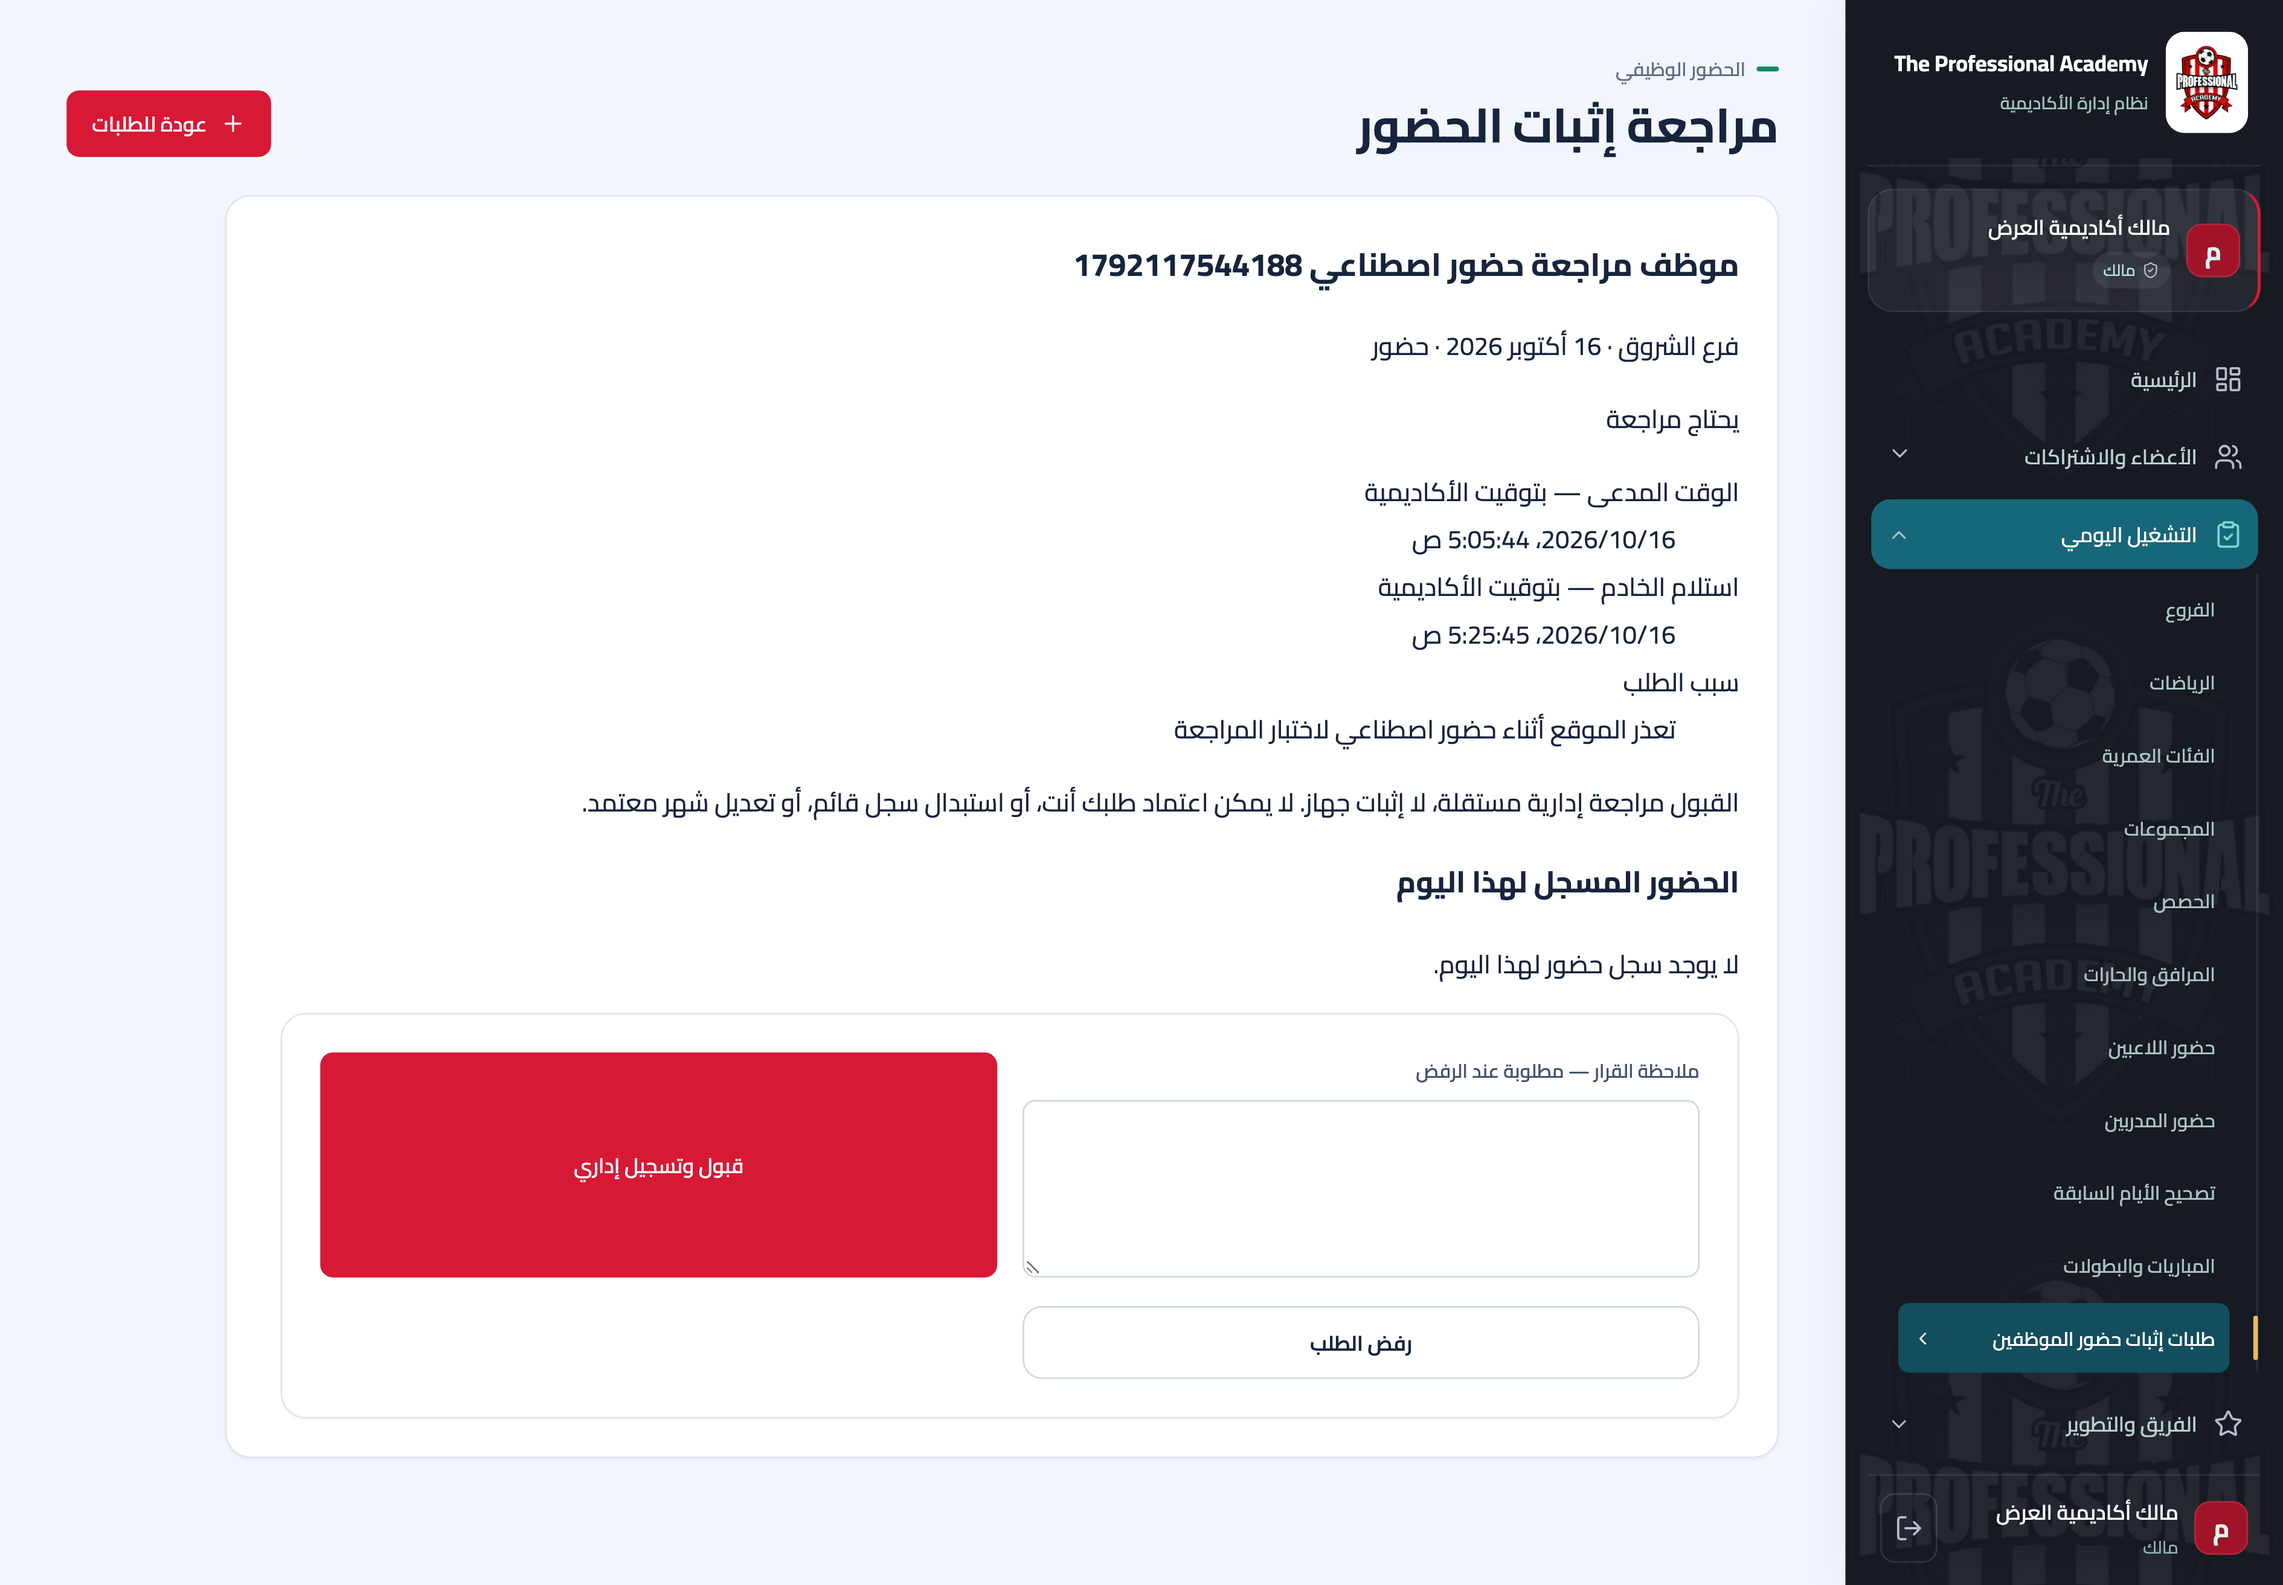
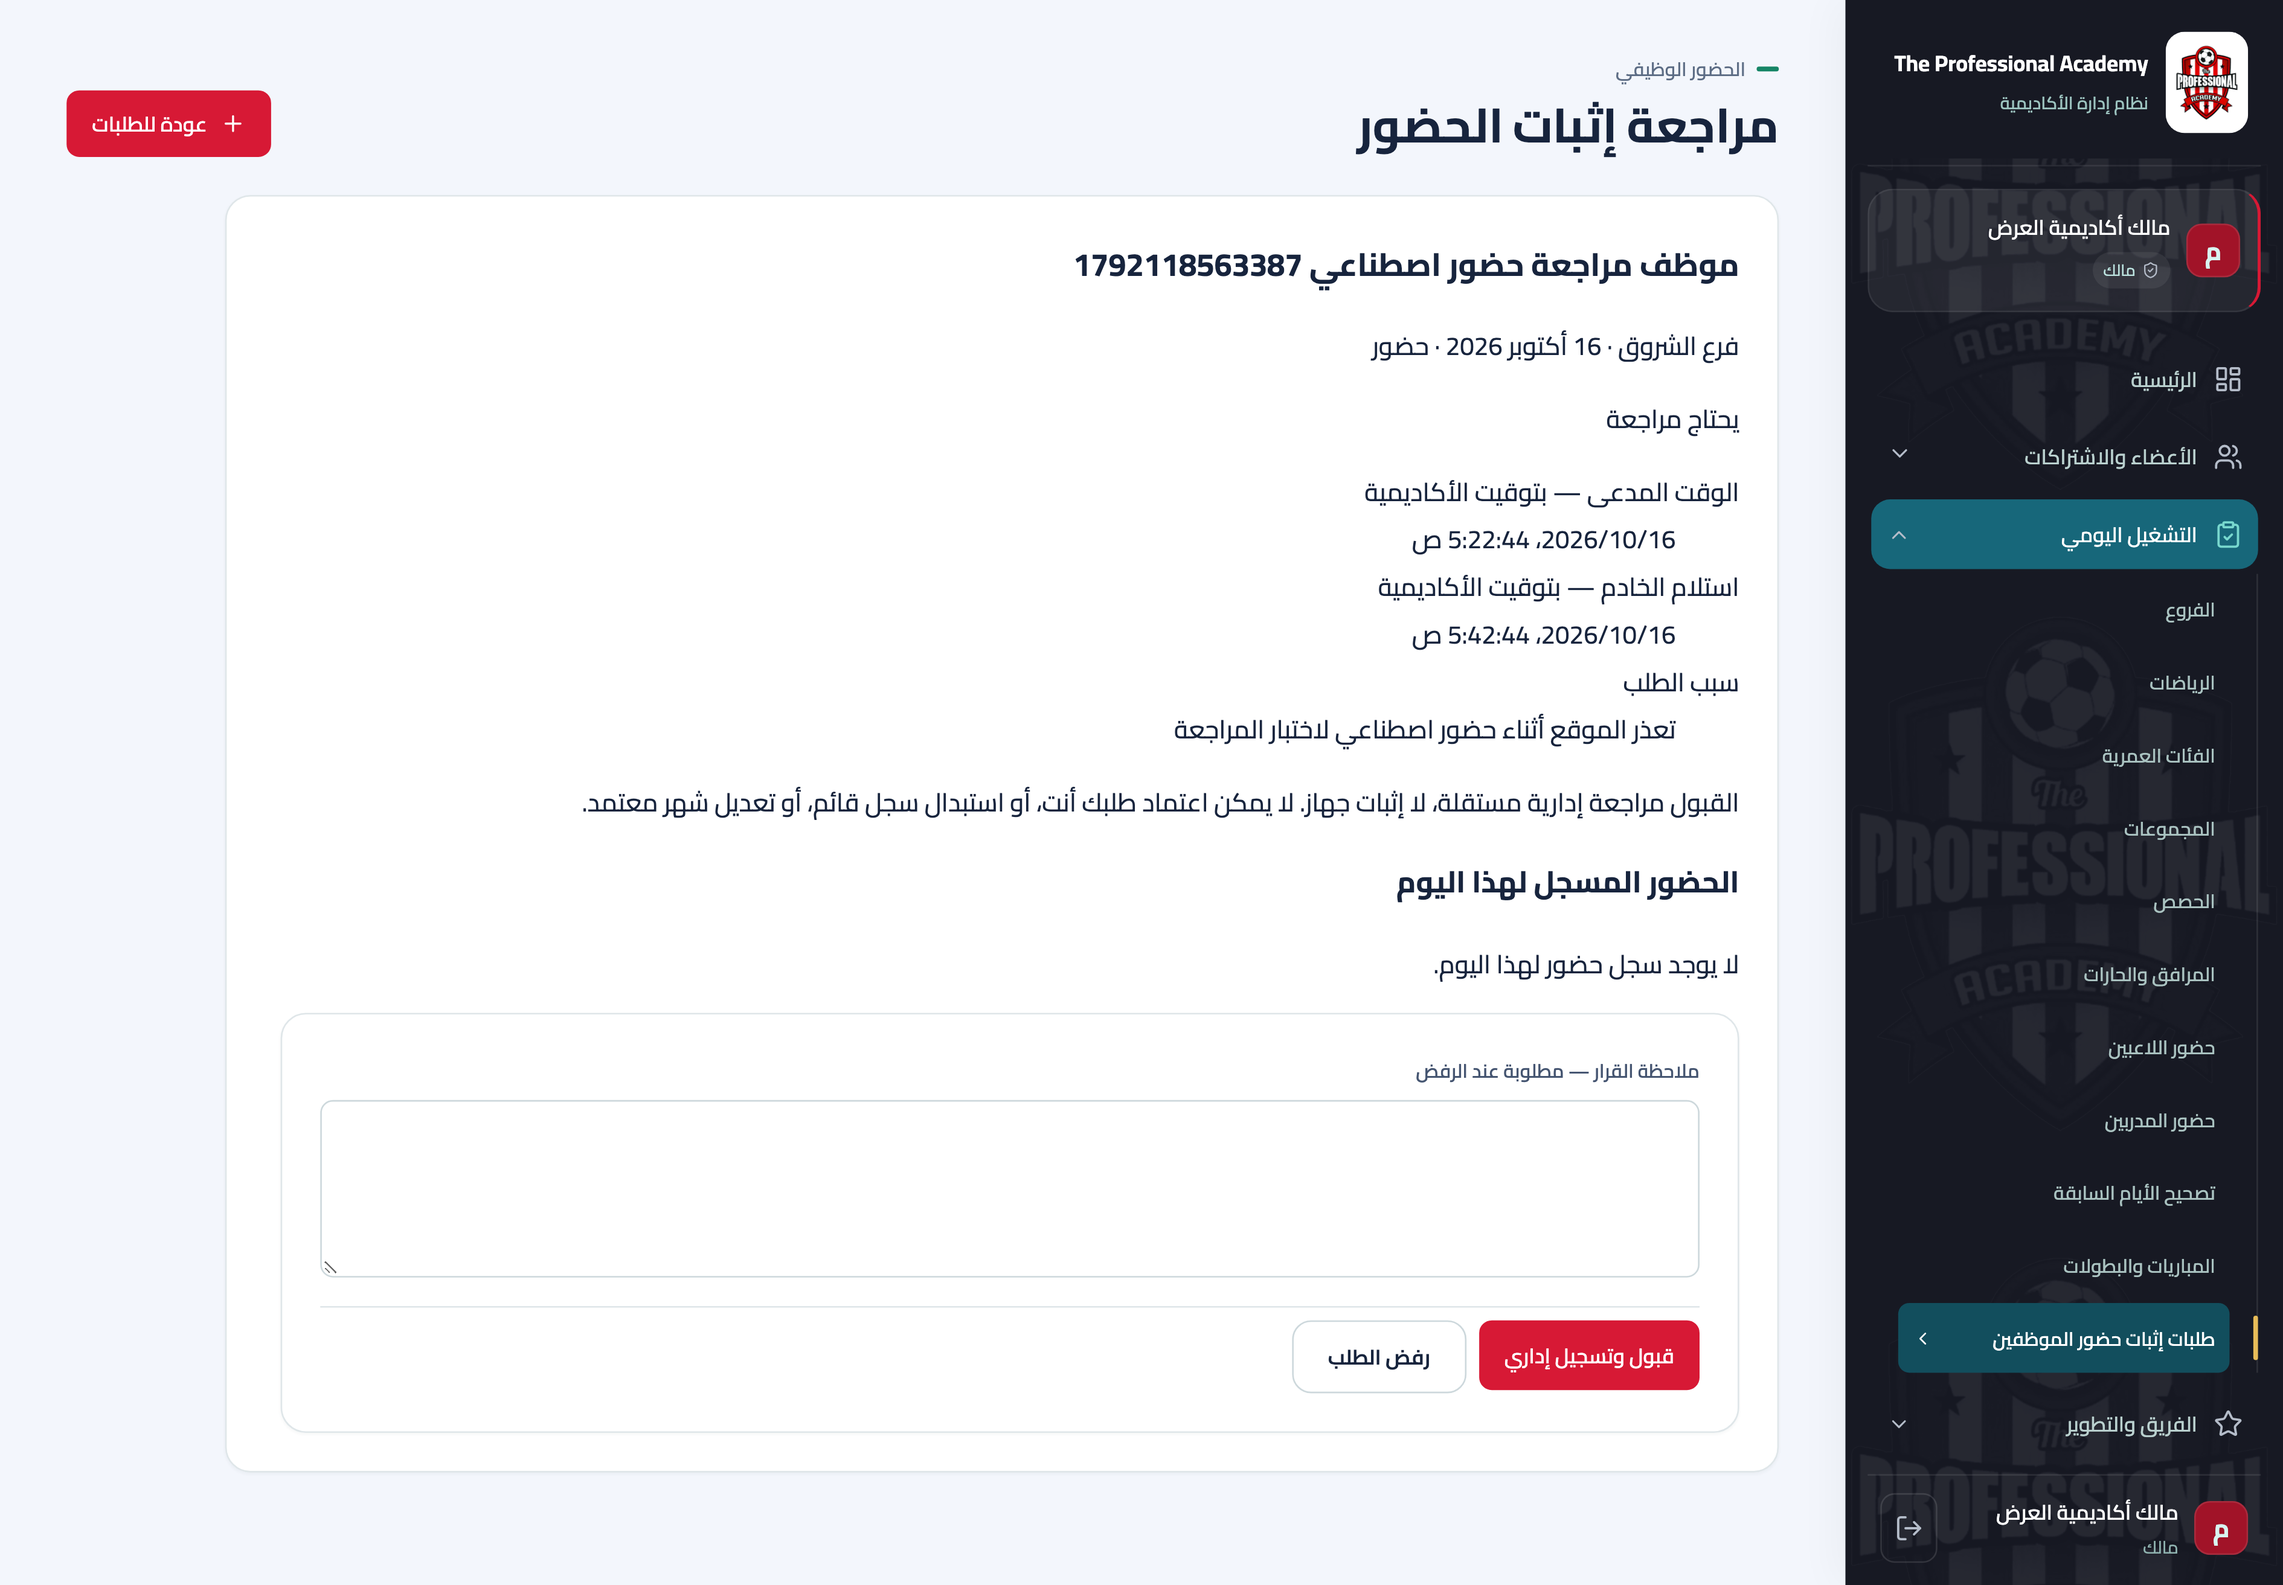
fix: keep attendance review actions compact at every viewport

Changed region(s): [[0.1249, 0.656, 0.437, 0.8122], [0.5619, 0.8122, 0.7492, 0.9059], [0.5307, 0.1562, 0.5619, 0.1874]]

diff --git a/apps/web/src/features/staff-attendance-exceptions.tsx b/apps/web/src/features/staff-attendance-exceptions.tsx
@@ -57,8 +57,9 @@ export function StaffAttendanceExceptionDetail({ id }: { id: string }) {
       <p>القبول مراجعة إدارية مستقلة، لا إثبات جهاز. لا يمكن اعتماد طلبك أنت، أو استبدال سجل قائم، أو تعديل شهر معتمد.</p>
       {"currentAttendance" in data && <aside><h3>الحضور المسجل لهذا اليوم</h3>{data.currentAttendance ? <p>{data.currentAttendance.status === "Present" ? "حاضر" : data.currentAttendance.status === "Absent" ? "غائب" : "لم يُسجل"} · حضور {data.currentAttendance.checkIn?.slice(0,5) ?? "—"} · انصراف {data.currentAttendance.checkOut?.slice(0,5) ?? "—"}</p> : <p>لا يوجد سجل حضور لهذا اليوم.</p>}</aside>}
       {data.request.reviewNote && <p>ملاحظة القرار: {data.request.reviewNote}</p>}
-      {data.canReview ? <form className="form-shell" onSubmit={e => void decide(e)}><label>ملاحظة القرار — مطلوبة عند الرفض<textarea maxLength={500} value={note} disabled={busy || pending !== null} onChange={e => setNote(e.target.value)} /></label>
-        {pending ? <><p>يوجد قرار لم يُؤكد بعد؛ إعادة الإرسال تستخدم القرار والمفتاح نفسيهما.</p><button className="primary-button" value={pending.approve ? "approve" : "reject"} disabled={busy}>إعادة تأكيد القرار</button><button type="button" disabled={busy} onClick={() => { void load().then(() => { setPending(null); setError(""); }).catch(() => setError("تعذر إعادة قراءة الطلب.")); }}>إعادة تحميل التفاصيل</button></> : <><button className="primary-button" value="approve" disabled={busy}>قبول وتسجيل إداري</button><button value="reject" disabled={busy}>رفض الطلب</button></>}
+      {data.canReview ? <form className="form-shell staff-exception-review-form" onSubmit={e => void decide(e)}><label>ملاحظة القرار — مطلوبة عند الرفض<textarea maxLength={500} value={note} disabled={busy || pending !== null} onChange={e => setNote(e.target.value)} /></label>
+        {pending && <p>يوجد قرار لم يُؤكد بعد؛ إعادة الإرسال تستخدم القرار والمفتاح نفسيهما.</p>}
+        <div className="form-actions">{pending ? <><button className="primary-button" value={pending.approve ? "approve" : "reject"} disabled={busy}>إعادة تأكيد القرار</button><button type="button" disabled={busy} onClick={() => { void load().then(() => { setPending(null); setError(""); }).catch(() => setError("تعذر إعادة قراءة الطلب.")); }}>إعادة تحميل التفاصيل</button></> : <><button className="primary-button" value="approve" disabled={busy}>قبول وتسجيل إداري</button><button value="reject" disabled={busy}>رفض الطلب</button></>}</div>
       </form> : data.request.status === "Pending" && <p>لا يمكنك مراجعة هذا الطلب بنفسك أو ليس لديك إذن التعديل؛ يعتمده مسؤول آخر مخول.</p>}
     </section>}</>;
 }

diff --git a/tests/e2e/football/v3-staff-attendance-exceptions.spec.ts b/tests/e2e/football/v3-staff-attendance-exceptions.spec.ts
@@ -19,8 +19,16 @@ test("Staff claim is pending until independent Web review, rereads in mobile/rep
   const replay = await page.request.post("/api/v1/staff/attendance-exceptions/", { headers: { ...mobileHeaders, "Idempotency-Key": requestKey }, data: body }); expect((await replay.json()).id).toBe(r.id);
   expect((await page.request.post(`/api/v1/manage/staff-attendance-exceptions/${r.id}/review`, { headers: mobileHeaders, data: { approve: true, note: null, version: r.version } })).status()).toBe(403);
   await page.goto(`/dashboard/attendance/staff/exceptions/${r.id}`); await expect(page.getByRole("heading", { name })).toBeVisible(); await expect(page.getByText("لا يوجد سجل حضور لهذا اليوم.")).toBeVisible();
-  await page.setViewportSize({ width: 390, height: 960 }); await page.screenshot({ path: info.outputPath("staff-claim-pending-390.png"), fullPage: true, animations: "disabled" });
-  await page.setViewportSize({ width: 1440, height: 1000 }); await page.screenshot({ path: info.outputPath("staff-claim-pending-1440.png"), fullPage: true, animations: "disabled" });
+  for (const width of [390, 1440]) {
+    await page.setViewportSize({ width, height: 1000 });
+    const button = await page.getByRole("button", { name: "قبول وتسجيل إداري" }).boundingBox();
+    const note = await page.getByLabel("ملاحظة القرار — مطلوبة عند الرفض").boundingBox();
+    expect(button).not.toBeNull(); expect(note).not.toBeNull();
+    expect(button!.height).toBeGreaterThanOrEqual(44); expect(button!.height).toBeLessThan(80);
+    expect(button!.y).toBeGreaterThanOrEqual(note!.y + note!.height);
+    expect(await page.evaluate(() => document.documentElement.scrollWidth)).toBeLessThanOrEqual(width);
+    await page.screenshot({ path: info.outputPath(`staff-claim-pending-${width}.png`), fullPage: true, animations: "disabled" });
+  }
   const save = page.waitForResponse(x => x.request().method() === "POST" && x.url().endsWith(`/staff-attendance-exceptions/${r.id}/review`)); await page.getByRole("button", { name: "قبول وتسجيل إداري" }).click(); const saved = await save; expect(saved.status(), await saved.text()).toBe(200);
   await expect(page.getByText("مقبول إداريًا", { exact: true })).toBeVisible(); await expect(page.getByText(/حاضر · حضور/)).toBeVisible();
   const own = await (await page.request.get("/api/v1/staff/attendance-exceptions/", { headers: mobileHeaders })).json(); const approved = own.find((x: { id: string }) => x.id === r.id); expect(approved.status).toBe("Approved"); expect(approved.trustSource).toBe("AdministrativeException"); expect(approved.attendanceId).toBeTruthy();

diff --git a/apps/web/src/app/dashboard/dashboard.css b/apps/web/src/app/dashboard/dashboard.css
@@ -237,6 +237,12 @@
 
 /* Forms and details */
 .dashboard-shell .form-shell { display: grid; grid-template-columns: repeat(2, minmax(0, 1fr)); gap: 18px 16px; max-width: 920px; padding: 24px; }
+.dashboard-shell .form-shell.staff-exception-review-form { grid-template-columns: minmax(0, 1fr); align-items: start; }
+.dashboard-shell .staff-exception-review-form .form-actions { align-items: start; background: transparent; }
+.dashboard-shell .staff-exception-review-form .form-actions > button { width: auto; min-height: 44px; }
+@media (max-width: 680px) {
+  .dashboard-shell .staff-exception-review-form .form-actions > button { width: 100%; }
+}
 .dashboard-shell .operating-expenses-page { display: grid; min-width: 0; gap: 16px; }
 .dashboard-shell .operating-expenses-page > * { min-width: 0; max-width: none; margin: 0; }
 .dashboard-shell .operating-expense-form { display: block; max-width: none; }
